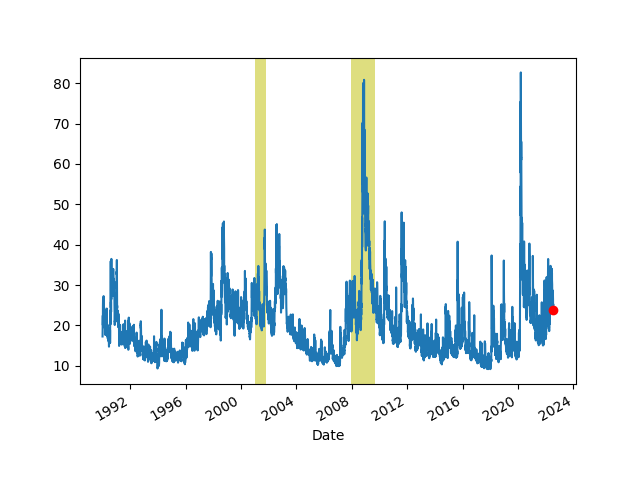
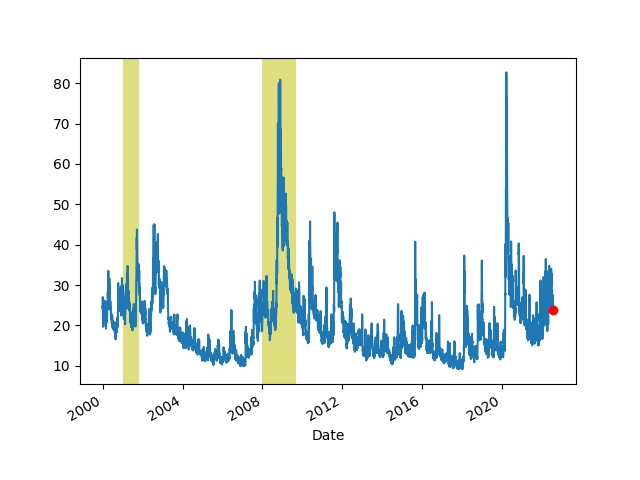
--

diff --git a/en/2019/05/util.py b/en/2019/05/util.py
@@ -6,7 +6,7 @@ from datetime import date
 
 def get_yahoofin(year,ticker):
     end = datetime.datetime.now()
-    start = datetime.datetime(1980, 1, 1)
+    start = datetime.datetime(year, 1, 1)
     start = int(timelib.mktime(start.timetuple()))
     end = int(timelib.mktime(end.timetuple()))
     base_fin_url = "https://query1.finance.yahoo.com/v7/finance/download"

diff --git a/en/2019/05/stats.md b/en/2019/05/stats.md
@@ -472,10 +472,10 @@ plt.savefig('dollar.png')
 Date
 2022-07-21    106.910004
 2022-07-22    106.730003
-2022-07-24    106.582000
-2022-07-25    106.433998
+2022-07-24    106.589000
+2022-07-25    106.447998
 Name: Close, dtype: float64
-[ 80.85641886 111.42774855]
+[ 80.85641937 111.42775122]
 ```
 
 ![](dollar.png)
@@ -644,7 +644,7 @@ Date
 2022-07-20    23.879999
 2022-07-21    23.110001
 2022-07-22    23.030001
-2022-07-25    23.840000
+2022-07-25    23.860001
 Name: Close, dtype: float64
 ```
 

diff --git a/en/2019/05/energstats.md b/en/2019/05/energstats.md
@@ -330,4 +330,18 @@ df.plot(); plt.savefig('lng.png')
 
 ![](lng.png)
 
+<a name='lumber'/>
+
+### Lumber
+
+```python
+import util; df = util.get_yahoofin(2015,"LBS=F"); df.plot(); plt.savefig('lumber.png')
+```
+
+![](lumber.png)
+
+
+
+
+
 
